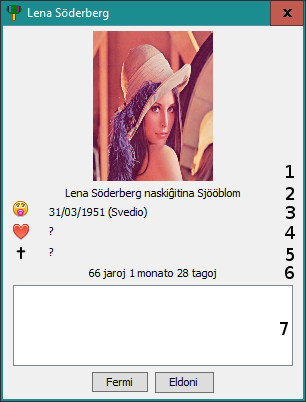
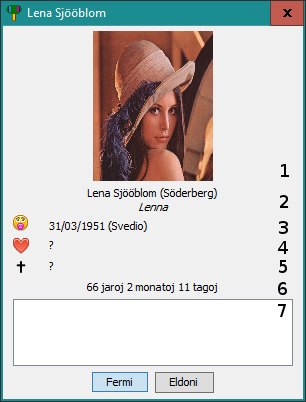
feat: added the other names to the display panel

diff --git a/Genealogy/help-doc/fr_FR/getting_started.cards.details.html b/Genealogy/help-doc/fr_FR/getting_started.cards.details.html
@@ -9,7 +9,10 @@
     Les zones sont détaillées ci-dessous&nbsp;:
     <ol>
       <li>l'image sélectionnée&nbsp;;</li>
-      <li>le nom complet de la personne&nbsp;;</li>
+      <li>
+        le nom complet de la personne suivit du nom d'usage entre parenthèses et des autres
+        prénoms en italique&nbsp;;
+      </li>
       <li><img src="../images/baby.png">: la date et le lieu de naissance&nbsp;;</li>
       <li>
         <img src="../images/heart.png">: la date et le lieu de marriage (uniquement si la personne

diff --git a/Genealogy/help-doc/en_US/getting_started.cards.details.html b/Genealogy/help-doc/en_US/getting_started.cards.details.html
@@ -9,7 +9,7 @@
     The zones are detailled bellow:
     <ol>
       <li>the image you have selected;</li>
-      <li>the person's full name;</li>
+      <li>the person's full name followed by the use name inside parentheses and the other names in italic;</li>
       <li><img src="../images/baby.png">: birth date and location;</li>
       <li><img src="../images/heart.png">: if the person is/was married, wedding date and location;</li>
       <li><img src="../images/cross.png">: death date and location;</li>

diff --git a/Genealogy/help-doc/eo/getting_started.cards.details.html b/Genealogy/help-doc/eo/getting_started.cards.details.html
@@ -9,7 +9,10 @@
     La zonoj estas detalitaj ĉi tiu&nbsp;:
     <ol>
       <li>la selektita bildo&nbsp;;</li>
-      <li>la kompleta nomo de la persono&nbsp;;</li>
+      <li>
+        la kompleta nomo de la persono sekvita de la uzanta nomo inter parentezoj kaj la
+        aliaj nomoj en kursiva&nbsp;;
+      </li>
       <li><img src="../images/baby.png">: la naskiĝdato kaj la naskiĝejo&nbsp;;</li>
       <li>
         <img src="../images/heart.png">: la edziĝdato kaj la edziĝejo (se la persono

diff --git a/Genealogy/src/net/darmo_creations/gui/components/DetailsPanel.java b/Genealogy/src/net/darmo_creations/gui/components/DetailsPanel.java
@@ -23,6 +23,7 @@ import java.awt.Dimension;
 import java.awt.Font;
 import java.awt.GridBagConstraints;
 import java.awt.GridBagLayout;
+import java.awt.GridLayout;
 import java.awt.Insets;
 import java.time.Period;
 import java.util.Optional;
@@ -52,6 +53,7 @@ public class DetailsPanel extends JPanel {
   public static final String UNKNOWN_DATA = "?";
 
   private JLabel nameLbl;
+  private JLabel otherNamesLbl;
   private JLabel birthLbl;
   private JLabel weddingLbl;
   private JLabel deathLbl;
@@ -66,10 +68,16 @@ public class DetailsPanel extends JPanel {
     setPreferredSize(new Dimension(300, 180));
     setLayout(new BorderLayout());
 
+    JPanel namesPnl = new JPanel(new GridLayout(2, 1));
     this.nameLbl = new JLabel();
     this.nameLbl.setHorizontalAlignment(JLabel.CENTER);
     this.nameLbl.setBorder(new EmptyBorder(0, 10, 0, 10));
-    add(this.nameLbl, BorderLayout.NORTH);
+    namesPnl.add(this.nameLbl);
+    this.otherNamesLbl = new JLabel();
+    this.otherNamesLbl.setHorizontalAlignment(JLabel.CENTER);
+    this.otherNamesLbl.setFont(this.otherNamesLbl.getFont().deriveFont(Font.ITALIC));
+    namesPnl.add(this.otherNamesLbl);
+    add(namesPnl, BorderLayout.NORTH);
 
     JPanel infoPnl = new JPanel(new GridBagLayout());
     GridBagConstraints gbc = new GridBagConstraints();
@@ -126,7 +134,6 @@ public class DetailsPanel extends JPanel {
     JScrollPane scroll = new JScrollPane(this.commentLbl = new JTextArea());
     this.commentLbl.setFont(Font.getFont("Tahoma"));
     this.commentLbl.setEditable(false);
-    // scroll.setPreferredSize(new Dimension(-1, 80));
     infoPnl.add(scroll, gbc);
 
     add(infoPnl, BorderLayout.CENTER);
@@ -146,6 +153,7 @@ public class DetailsPanel extends JPanel {
 
     this.nameLbl.setText(name);
     this.nameLbl.setIcon(member.isDead() ? Images.CROSS : null);
+    this.otherNamesLbl.setText(member.getOtherNames().orElse(""));
     this.birthLbl.setText(birth);
     this.weddingLbl.setText(weddingS);
     this.deathLbl.setText(death);

diff --git a/Genealogy/src/net/darmo_creations/gui/dialog/card/CardDialog.java b/Genealogy/src/net/darmo_creations/gui/dialog/card/CardDialog.java
@@ -602,7 +602,7 @@ public class CardDialog extends AbstractDialog {
    * @return text field's content
    */
   private String getContent(JTextField field) {
-    String text = field.getText();
+    String text = field.getText().trim().replaceAll("\\s+", " ");
     return text.length() > 0 ? text : null;
   }
 
